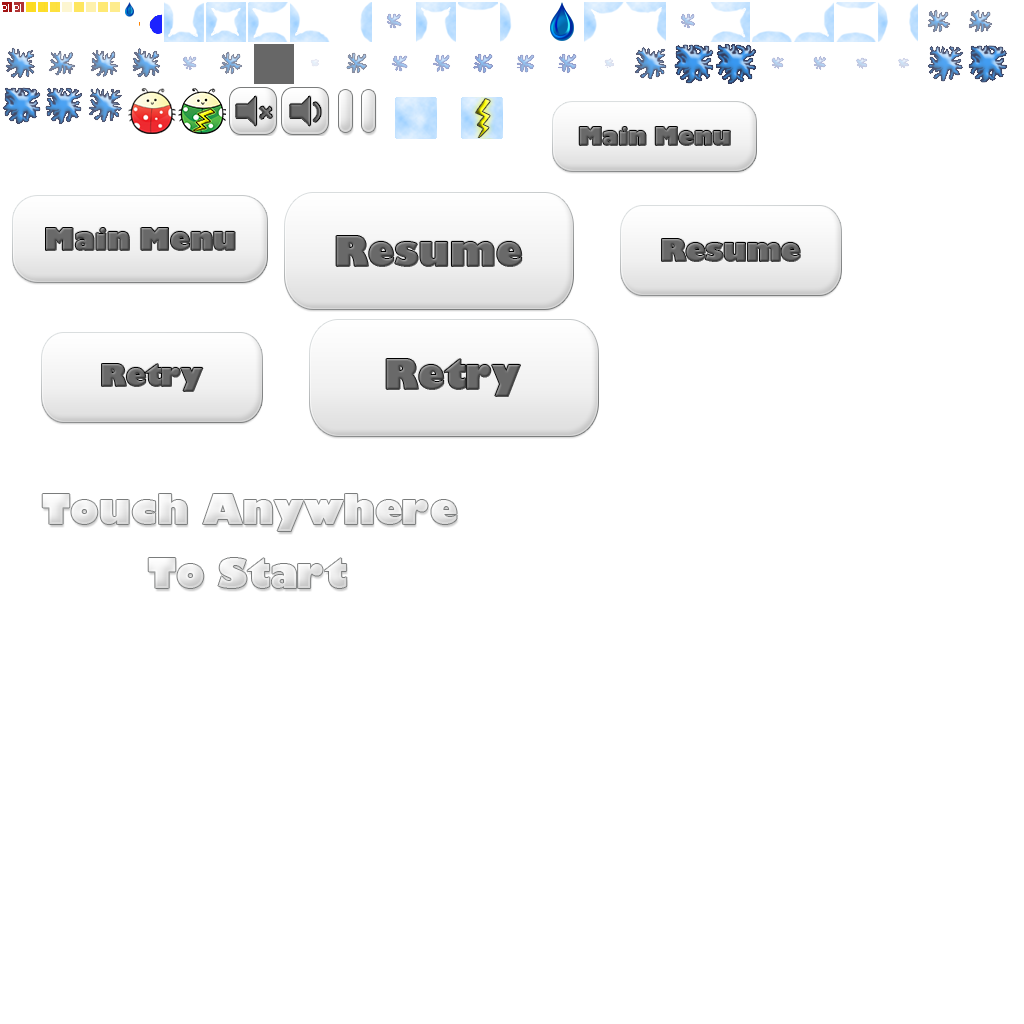
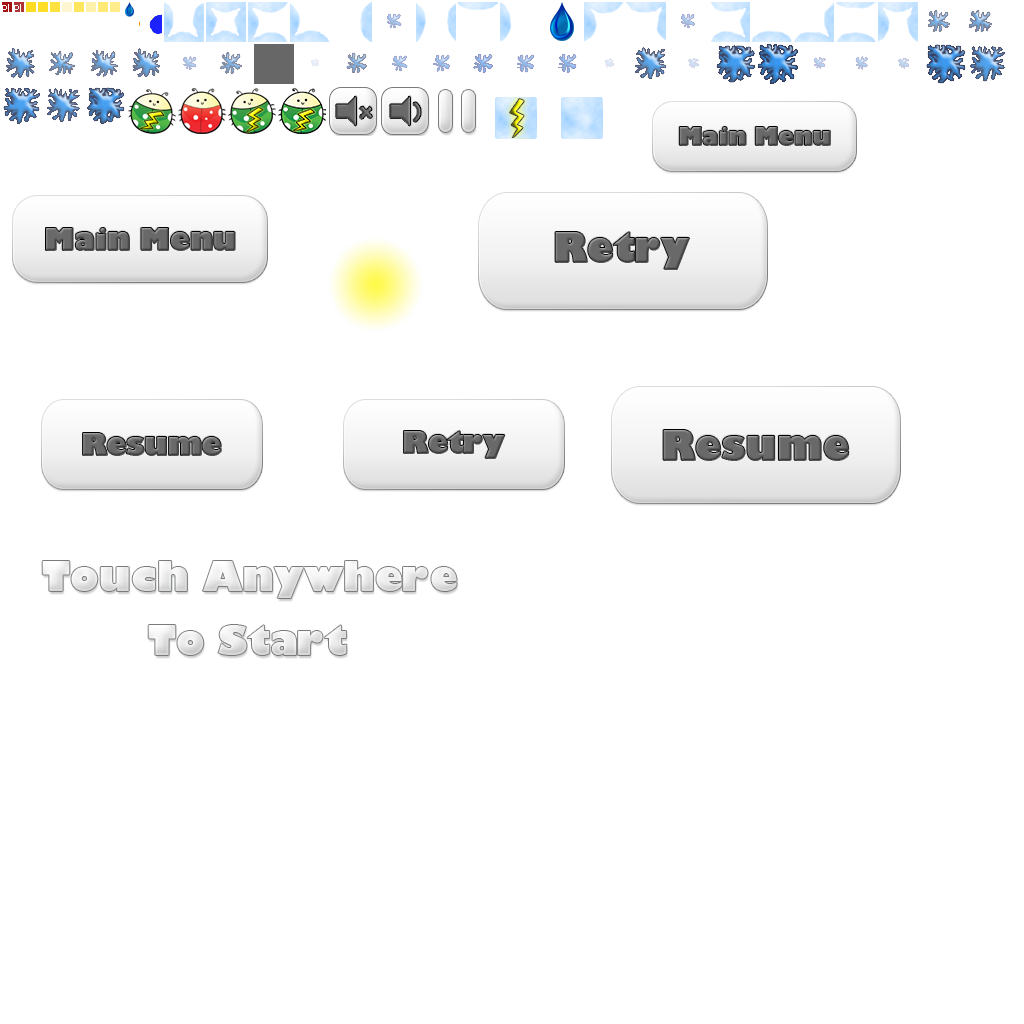
new graphics in part 11

diff --git a/CloudHopper/src/com/jerhis/cloudgame/GameScreen.java b/CloudHopper/src/com/jerhis/cloudgame/GameScreen.java
@@ -24,7 +24,7 @@ public class GameScreen implements Screen, InputProcessor {
 
 	TextureAtlas textures;// textures2, textures3;
 	AtlasRegion ready, pauseIcon, music[] = new AtlasRegion[2], blackOverlay, yellowOverlay, rain, rain15, lighthalf, lightline,
-		basic0, super0, redChaser, sceneryClouds[] = new AtlasRegion[16], 
+		basic0, super0, redChaser, guyright, guyleft, sceneryClouds[] = new AtlasRegion[16], lightningani,
 		blue[] = new AtlasRegion[31], buttonImages[][] = new AtlasRegion[10][2];
         //backgrounds[] = new AtlasRegion[10]; //yellow[] = new AtlasRegion[10];
     Texture bg1;
@@ -71,8 +71,11 @@ public class GameScreen implements Screen, InputProcessor {
 		basic0 = textures.findRegion("basic0");
 		super0 = textures.findRegion("super");
 		redChaser = textures.findRegion("bug");
+        guyright = textures.findRegion("rightbug");
+        guyleft = textures.findRegion("leftbug");
         lighthalf = textures.findRegion("lightninghalf");
         lightline = textures.findRegion("lightningline");
+        lightningani = textures.findRegion("lightningani3");
 		for (int k = 1; k < 16; k++)
 			sceneryClouds[k] = textures.findRegion("clsc" + k);
 		sceneryClouds[0] = pauseIcon;
@@ -247,7 +250,17 @@ public class GameScreen implements Screen, InputProcessor {
 		//game.batch.draw(redChaser, game.g.guy.x - redChaser.originalWidth/2, game.g.guy.y - 15- game.g.height, 0,0,redChaser.originalWidth,redChaser.originalHeight,1,scX,0);
 
         //long s4 = System.nanoTime();
-        game.batch.draw(redChaser, game.g.guy.x - redChaser.originalWidth/2, game.g.guy.y - 15- game.g.height);
+        if (!(game.g.left ^ game.g.right))
+            game.batch.draw(redChaser, game.g.guy.x - redChaser.originalWidth/2, game.g.guy.y - 15- game.g.height);
+        else if (game.g.left && !game.g.right)
+            game.batch.draw(guyleft, game.g.guy.x - redChaser.originalWidth/2, game.g.guy.y - 15- game.g.height);
+        else if (!game.g.left && game.g.right)
+            game.batch.draw(guyright, game.g.guy.x - redChaser.originalWidth/2, game.g.guy.y - 15- game.g.height);
+
+        if (game.g.guy.lightning > 0) {
+            float stretch = (game.g.guy.LIGHTNING_MAX - Math.abs(game.g.guy.lightning - game.g.guy.LIGHTNING_MAX))*game.g.guy.LIGHTNING_SCALE;
+            game.batch.draw(lightningani,game.g.guy.x- 192/2*stretch,game.g.guy.y - game.g.height - 192/2*stretch,0,0,192,192,stretch, stretch,0);
+        }
 
         if (tutorial) {
             d(music[game.sound ? 0 : 1],800-50,480-50);
@@ -259,7 +272,7 @@ public class GameScreen implements Screen, InputProcessor {
 		d("Best: " + game.highScore, 10, 460);
 		if (game.debug) {
             int fps = (int)(1/game.g.lastDelta);
-            if (fps > 55 && fps < 62) fps = 60;
+            if (fps > 55 && fps < 64) fps = 60;
 			d("FPS: " + fps, 10, 430);
 			//d(" Y: " + game.accelY, 10, 380);
 		}

diff --git a/CloudHopper/src/com/jerhis/cloudgame/game/Guy.java b/CloudHopper/src/com/jerhis/cloudgame/game/Guy.java
@@ -5,18 +5,20 @@ import com.badlogic.gdx.math.Vector3;
 public class Guy {
 	
 	public float x,y;
-	public float velY, velX;
+	public float velY, velX, lightning;
 	public boolean jumping= true, dead = false;
     public Vector3 lastAccel = new Vector3(0,0,0);
 	
-	public final float  MOMENTUM = 1f, GRAVITY = 9,
+	public float  MOMENTUM = 1f, GRAVITY = 9,
 			MAXMOMENTUM = 7, RESISTANCE = 0.5f,
-			TILTMOMENTUM = 380f, REGULAR_JUMP = 4.0f, SUPER_JUMP = 10.8f;
+			TILTMOMENTUM = 380f, REGULAR_JUMP = 4.0f, SUPER_JUMP = 10.8f,
+            LIGHTNING_MAX = 1.0f, LIGHTNING_SCALE = 0.9f;
 	
 	public Guy(float x, float y){
 		this.x = x; 
 		this.y = y;
         lastAccel = new Vector3(0,0,0);
+        lightning = 0;
 	}
 	
 	public Guy(){
@@ -25,6 +27,9 @@ public class Guy {
 	
 	public void update(float delta, boolean right, boolean left, float height, float sensitivity) {
 		velY -= delta * GRAVITY;
+
+        lightning -= delta;
+        if (lightning < 0) lightning = 0;
 
         sensitivity += velY > 4 ? (velY - 4)/(10.8 - 4)*1.3f : 0;
         sensitivity = sensitivity > 2 ? 2.0f : sensitivity;
@@ -50,6 +55,9 @@ public class Guy {
 	
 	public void update(float delta, float accelX, float accelY, float accelZ, float height, float sensitivity) {
 		velY -= delta * GRAVITY;
+
+        lightning -= delta;
+        if (lightning < 0) lightning = 0;
 
         sensitivity += velY > REGULAR_JUMP ? (velY - REGULAR_JUMP)/(SUPER_JUMP - REGULAR_JUMP)*1.3f : 0;
         sensitivity = sensitivity > 2 ? 2.0f : sensitivity;

diff --git a/CloudHopper/src/com/jerhis/cloudgame/game/TileSuper.java b/CloudHopper/src/com/jerhis/cloudgame/game/TileSuper.java
@@ -28,6 +28,7 @@ public class TileSuper extends Tile {
 				Ctype == CollisionType.UL && (leftTile == null || leftTile instanceof TileScenery) ||
 				Ctype == CollisionType.UR && (rightTile == null || rightTile instanceof TileScenery))) {
 			super.continuousJumpCollision(guy, guy.SUPER_JUMP);
+            guy.lightning = guy.LIGHTNING_MAX*1.5f;
 			type = Tile.Type.becomeScenery;
 			return true;
 		}
